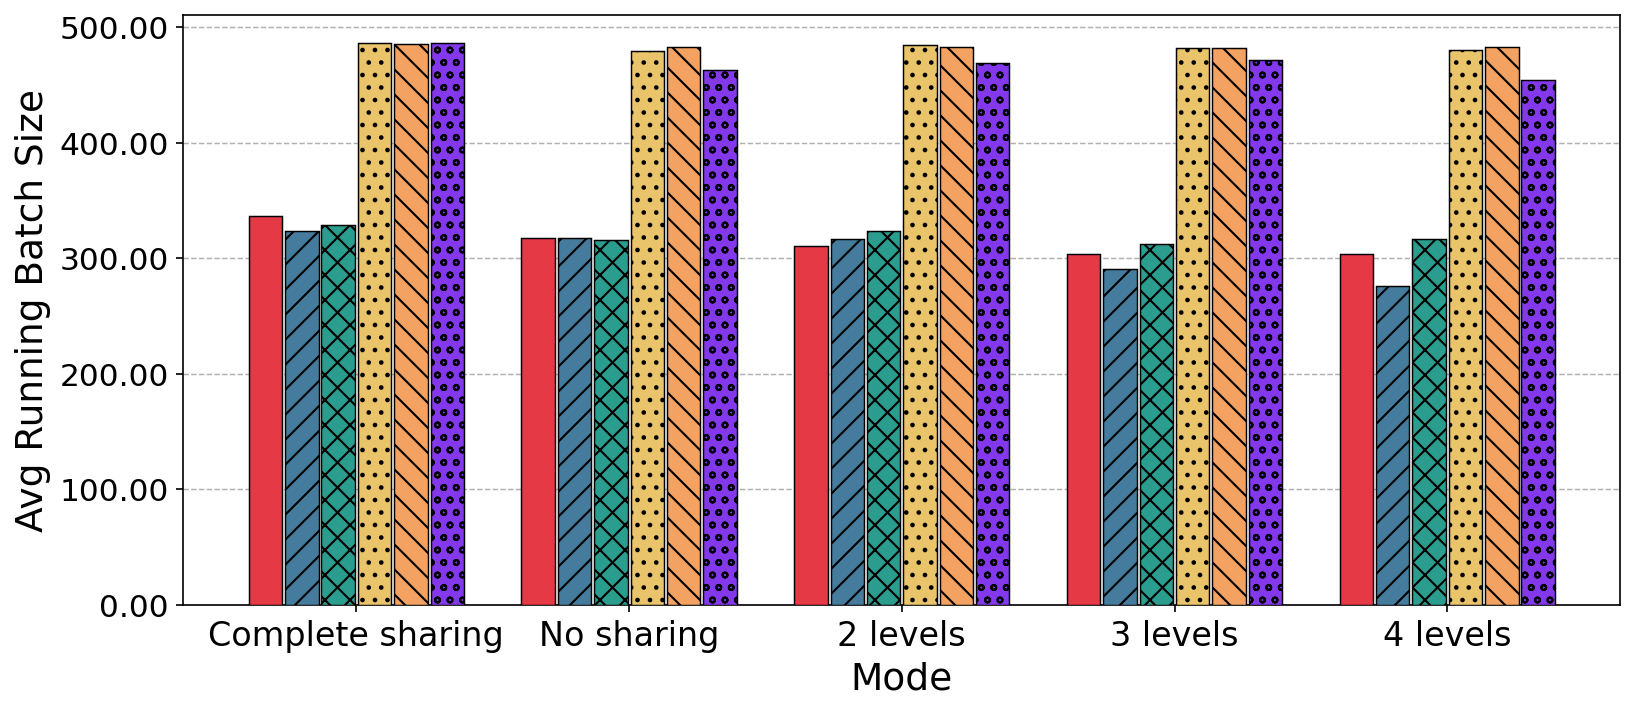
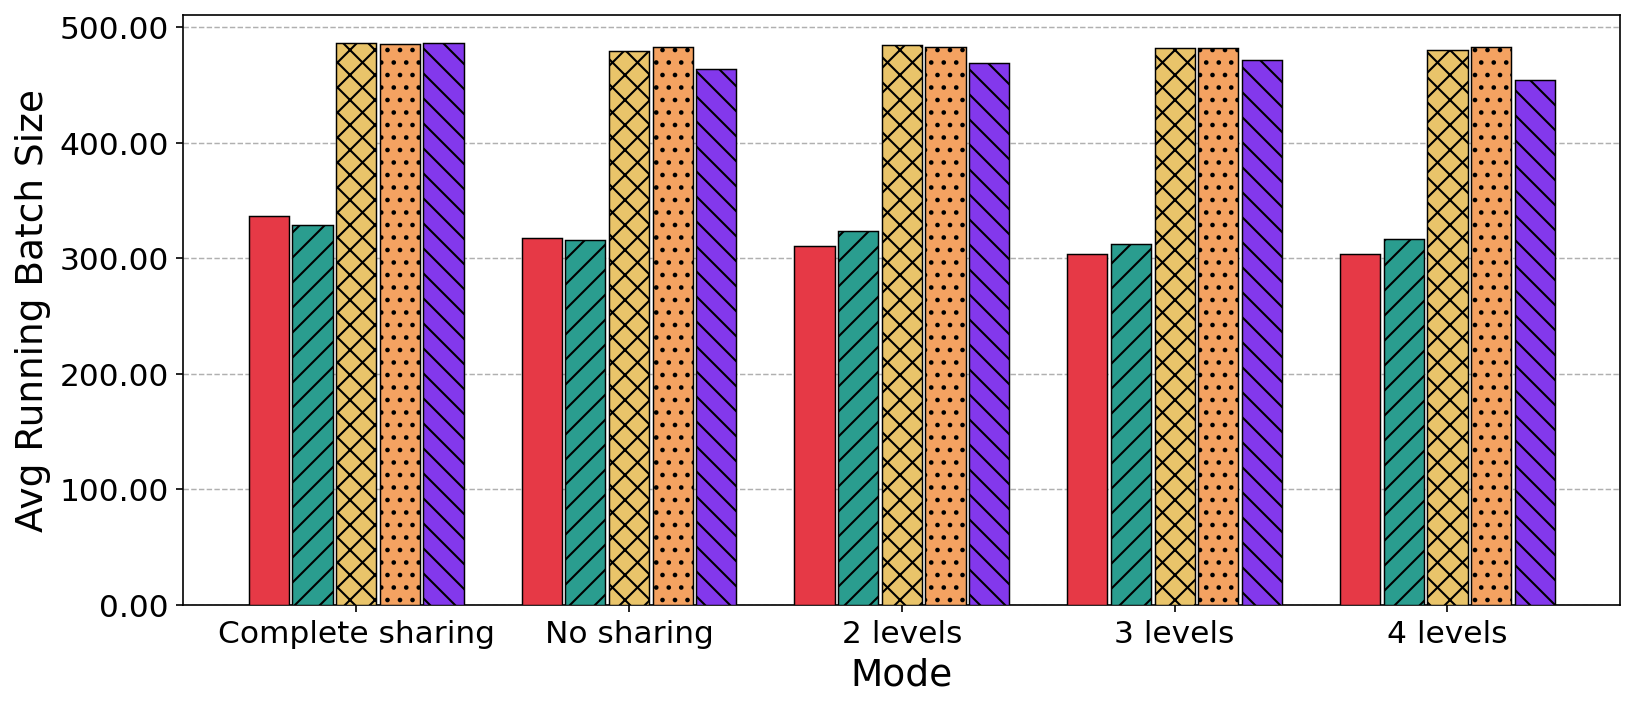
radix tree plots

diff --git a/code/vllm/radix_tree_logs/plot.py b/code/vllm/radix_tree_logs/plot.py
@@ -96,6 +96,8 @@ for path in log_files:
         policy = "Feather"
 
     label = f"{engine}:{policy}"
+    if "fcfs" in label.lower() and "sglang" in label.lower():
+        continue
 
     avg_batch, avg_diff, throughput = parse_log(path)
 
@@ -129,7 +131,7 @@ print(f"Modes found    : {all_modes}")
 
 # ── Color-blind-friendly palette ─────────────────────────────────────────────
 PALETTE = [
-    "#E63946", "#457B9D", "#2A9D8F", "#E9C46A",
+    "#E63946", "#2A9D8F", "#E9C46A",
     "#F4A261", "#8338EC", "#06D6A0", "#FB5607",
     "#3A86FF", "#FF006E",
 ]
@@ -207,7 +209,7 @@ for sv in sorted(per_sys.keys()):
         ax.set_xticklabels(mode_labels, fontsize=16)
         ax.set_xlabel("Mode", fontsize=18)
         ax.set_ylabel(ylabel, fontsize=18)
-        ax.tick_params(axis="y", labelsize=15)
+        ax.tick_params(axis="both", labelsize=15)
         ax.yaxis.set_major_formatter(ticker.FormatStrFormatter("%.2f"))
         if metric_key == "throughput":
             ax.legend(fontsize=13, framealpha=0.35, ncol=3,
